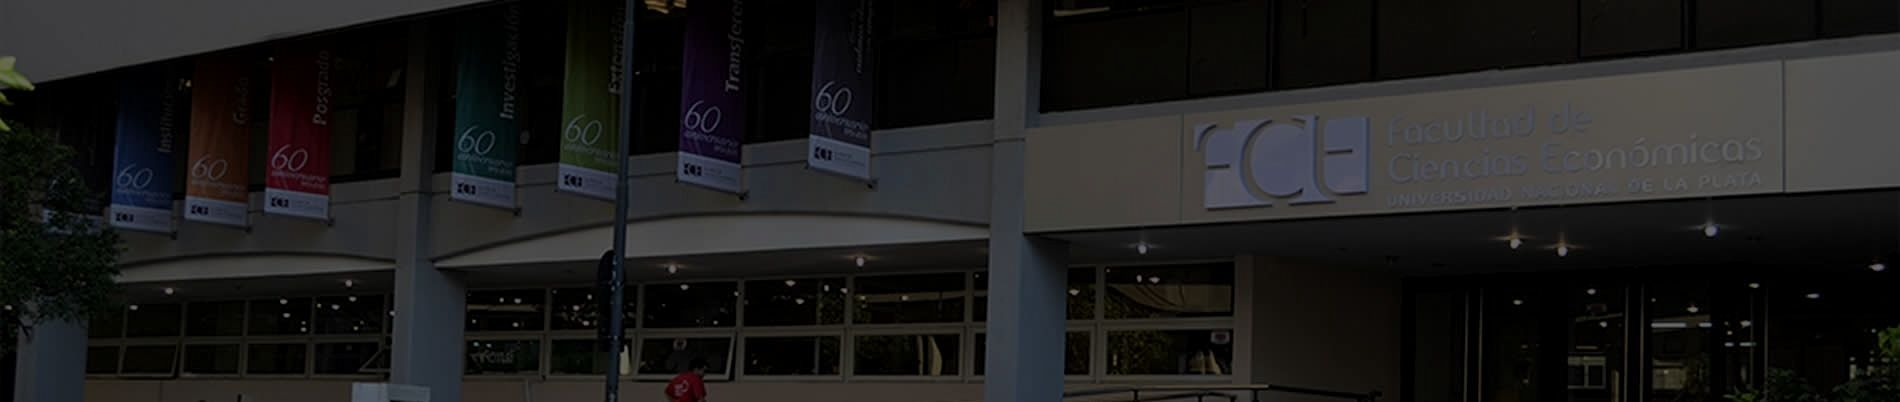
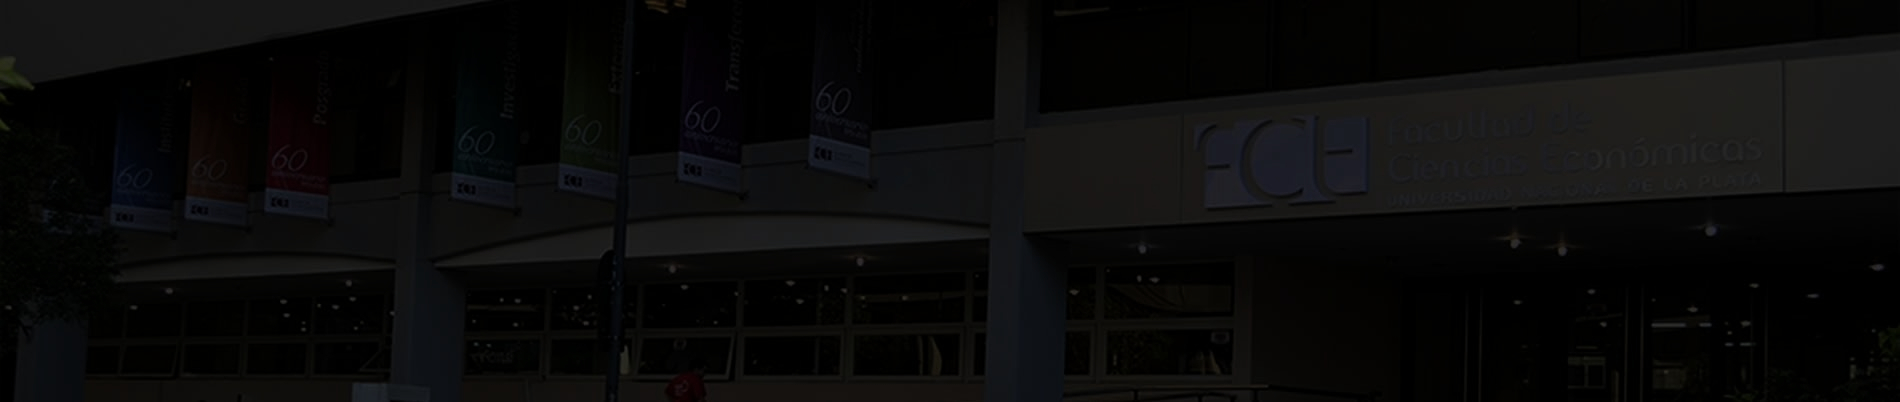
Estoy estilando la pantalla de busqueda publica

diff --git a/dev/src/digesto-ui/src/app/modules/publico/lista/lista.component.html b/dev/src/digesto-ui/src/app/modules/publico/lista/lista.component.html
@@ -1,15 +1,97 @@
-
+<div class="bloque">
 <mat-toolbar class="toolbar">
     <div>DIGESTO</div>
 
   <button mat-stroked-button (click)="acceder()" color="secundary" class="btnAcceder">ACCEDER</button>
 </mat-toolbar>
 
-<!-- <div class="contenedorBusqueda">
+<div class="contenedorBusqueda">
 
-</div> -->
+    <!-- <mat-card> -->
 
-<mat-divider></mat-divider>
+        <div class="busquedaPC temaFceOscuro">
+
+            <form [formGroup]='filters' (ngSubmit)='buscar()' class="formularioPC">
+
+                <div class="bloqueBuscar">
+
+                  <mat-form-field class="inputBuscar" appearance="fill">
+                      <mat-label>Buscar Normas</mat-label>
+                      <input matInput formControlName='texto'>
+                      <mat-hint class="mensajeBusqueda">Búsqueda libre ( palabras, números, extracto de norma, etc.)</mat-hint>
+
+                    </mat-form-field>
+        
+                    <button type='submit' class="btnBuscarPC" mat-flat-button color="primary">   
+                        <mat-icon matSuffix>search</mat-icon> 
+                    </button>
+
+                </div>
+
+                <div class="filtosPC">
+
+                  <mat-form-field class="inputFecha" appearance="fill">
+                    <mat-label>Desde</mat-label>
+                    <input matInput [matDatepicker]="desde" placeholder="Desde" formControlName='desde'>
+                    <mat-datepicker-toggle matSuffix [for]="desde"></mat-datepicker-toggle>
+                    <mat-datepicker #desde></mat-datepicker>
+                  </mat-form-field>
+      
+                  <mat-form-field class="inputFecha" appearance="fill">
+                    <mat-label>Hasta</mat-label>
+                    <input matInput [matDatepicker]="hasta" placeholder="Hasta" formControlName='hasta'>
+                    <mat-datepicker-toggle matSuffix [for]="hasta"></mat-datepicker-toggle>
+                    <mat-datepicker #hasta></mat-datepicker>
+                  </mat-form-field>
+
+                </div>
+
+                
+
+
+          </form>
+
+        </div>
+
+
+
+        <!-- <form [formGroup]='filters' (ngSubmit)='buscar()'>
+
+          <div class="contenedorInput">
+              <mat-form-field class="itemFormulario" appearance="outline">
+                  <mat-label>Buscar Normas</mat-label>
+                  <input matInput formControlName='texto'>
+                </mat-form-field>
+    
+                <button type='submit' class="btnGuardar" mat-flat-button color="primary">   
+                    <mat-icon matSuffix>search</mat-icon>
+                </button>
+          </div>
+
+          <button type="button" mat-button class="btnFiltros" (click)="mostrarFiltros = !mostrarFiltros"> Filtros <i class="material-icons">keyboard_arrow_down</i></button>
+          <div *ngIf="mostrarFiltros">
+
+              <mat-form-field class="itemFormulario" appearance="outline">
+                  <mat-label>Desde</mat-label>
+                  <input matInput [matDatepicker]="desde" placeholder="Desde" formControlName='desde'>
+                  <mat-datepicker-toggle matSuffix [for]="desde"></mat-datepicker-toggle>
+                  <mat-datepicker #desde></mat-datepicker>
+                </mat-form-field>
+    
+                <mat-form-field class="itemFormulario" appearance="outline">
+                  <mat-label>Hasta</mat-label>
+                  <input matInput [matDatepicker]="hasta" placeholder="Hasta" formControlName='hasta'>
+                  <mat-datepicker-toggle matSuffix [for]="hasta"></mat-datepicker-toggle>
+                  <mat-datepicker #hasta></mat-datepicker>
+                </mat-form-field>
+          </div>
+
+        </form> -->
+      <!-- </mat-card> -->
+
+  </div>
+ </div>
+
 
 <div class="pantalla">
 

diff --git a/dev/src/digesto-ui/src/app/modules/publico/lista/lista.component.scss b/dev/src/digesto-ui/src/app/modules/publico/lista/lista.component.scss
@@ -1,3 +1,10 @@
+.bloque {
+    width: 100%;
+    -webkit-box-sizing: border-box;
+    -moz-box-sizing: border-box;
+    box-sizing: border-box;
+}
+
 .toolbar {
     display: flex;
     justify-content: space-between;
@@ -10,6 +17,100 @@
     background-color: white;
     color: #607d8b;
 }
+
+
+.contenedorBusqueda {
+    background-image: url("/assets/img/fce/fondofce.jpg");
+    padding: 20px;
+    height: 250px;
+    display: flex;
+    align-items: center;
+    justify-content: center;
+    width: 100%;
+    -webkit-box-sizing: border-box;
+    box-sizing: border-box;
+}
+
+.busquedaPC {
+    width: 100%;
+    @media screen and (max-width: 1000px) {
+        margin-top: 20px;
+    }
+}
+
+.mensajeBusqueda {
+    @media screen and (max-width: 1000px) {
+        display: none;
+    }
+}
+
+
+.formularioPC {
+    display: flex;
+    justify-content: center;
+    width: 100%;
+    @media screen and (max-width: 1000px) {
+        justify-content: space-around;
+
+        flex-direction: column;
+    }
+
+}
+
+.bloqueBuscar {
+    display: flex;
+    flex-direction: row;
+    width: 100%;
+    justify-content: center;
+
+}
+
+.inputBuscar {
+    
+    min-width: 75%;
+    color: white;
+    @media screen and (max-width: 1000px) {
+        min-width: 80%;
+    }
+
+}
+
+.btnBuscarPC {
+    // padding: 10px 0 10px 0;
+    height: 60px;
+    margin-left: 5px;
+    @media screen and (max-width: 1000px) {
+           width: 20%;
+    }
+}
+
+
+.filtosPC {
+    width: 100%;
+    display: flex;
+    flex-direction: row;
+    @media screen and (max-width: 768px) {
+        justify-content: space-between;
+
+    }
+}
+
+.inputFecha {
+
+    margin-right: 20px;
+    color: white;
+        @media screen and (max-width: 768px) {
+            width: 48%;
+            margin-right: 20px;
+        }
+}
+
+.filtosCel {
+    display: none;
+}
+
+
+
 
 
 
@@ -49,10 +150,15 @@
 .busqueda {
     width: 30%;
     margin-right: 20px;
+    display: none;
 }
 
 .resultados {
-    width: 100%;
+    width: 85%;
+    margin: 0 auto;
+        @media screen and (max-width: 768px) {
+            width: 100%;
+        }
 }
 
 .contenedorInput {

diff --git a/dev/src/digesto-ui/src/assets/themes/themeFCE.scss b/dev/src/digesto-ui/src/assets/themes/themeFCE.scss
@@ -104,20 +104,20 @@ $mat-accentfce: (
 
 
 $mat-warnfce: (
-    50 : #fde7e8,
-    100 : #f9c3c6,
-    200 : #f59ba0,
-    300 : #f17379,
-    400 : #ee555d,
-    500 : #eb3740,
-    600 : #e9313a,
-    700 : #e52a32,
-    800 : #e2232a,
-    900 : #dd161c,
-    A100 : #ffffff,
-    A200 : #ffdadb,
-    A400 : #ffa7aa,
-    A700 : #ff8e91,
+    50 : #eceff1,
+    100 : #cfd8dc,
+    200 : #b0bec5,
+    300 : #90a4ae,
+    400 : #78919c,
+    500 : #607d8b,
+    600 : #587583,
+    700 : #4e6a78,
+    800 : #44606e,
+    900 : #334d5b,
+    A100 : #abe1ff,
+    A200 : #78ceff,
+    A400 : #45bcff,
+    A700 : #2bb3ff,
     contrast: (
         50 : #000000,
         100 : #000000,
@@ -157,3 +157,4 @@ $dark-theme:   mat-dark-theme($dark-primary, $dark-accent, $dark-warn);
 .temaFceOscuro {
   @include angular-material-theme($dark-theme);
 }
+

diff --git a/dev/src/digesto-ui/src/environments/environment.ts b/dev/src/digesto-ui/src/environments/environment.ts
@@ -7,8 +7,8 @@ export const environment = {
   loginApiUrl: 'https://api.econo.unlp.edu.ar/login/api/v1.0',
   wardenApiUrl: 'https://api.econo.unlp.edu.ar/warden/api/v1.0',
   oidp_issuer: 'https://oidc.econo.unlp.edu.ar/',
-  //digestoApiUrl: 'http://163.10.17.13:11302/digesto/api/v1.0',
-  digestoApiUrl: 'http://localhost:11302/digesto/api/v1.0',
+  digestoApiUrl: 'http://163.10.17.13:11302/digesto/api/v1.0',
+  // digestoApiUrl: 'http://localhost:11302/digesto/api/v1.0',
 
   client_id: 'digesto-ui',
   version: '0.0.1a',

diff --git a/dev/src/digesto-ui/src/environments/environment.ui.ts b/dev/src/digesto-ui/src/environments/environment.ui.ts
@@ -7,8 +7,8 @@ export const environment = {
   loginApiUrl: 'https://api.econo.unlp.edu.ar/login/api/v1.0',
   wardenApiUrl: 'https://api.econo.unlp.edu.ar/warden/api/v1.0',
   oidp_issuer: 'https://oidc.econo.unlp.edu.ar/',
-  //digestoApiUrl: 'http://163.10.17.13:11302/digesto/api/v1.0',
-  digestoApiUrl: 'http://localhost:11302/digesto/api/v1.0',
+  digestoApiUrl: 'http://163.10.17.13:11302/digesto/api/v1.0',
+  // digestoApiUrl: 'http://localhost:11302/digesto/api/v1.0',
 
   client_id: 'digesto-ui',
   version: '0.0.1a',

diff --git a/dev/src/digesto-ui/src/styles.scss b/dev/src/digesto-ui/src/styles.scss
@@ -1,4 +1,7 @@
 /* You can add global styles to this file, and also import other style files */
 
 html, body { height: 100%; }
-body { margin: 0; font-family: Roboto, "Helvetica Neue", sans-serif; }
+body { margin: 0; 
+      font-family: Roboto, "Helvetica Neue", sans-serif;
+       
+}

diff --git a/dev/src/digesto-ui/src/index.html b/dev/src/digesto-ui/src/index.html
@@ -2,7 +2,7 @@
 <html lang="en">
 <head>
   <meta charset="utf-8">
-  <title>DigestoUi</title>
+  <title>Digesto</title>
   <base href="/">
 
   <meta name="viewport" content="width=device-width, initial-scale=1">
